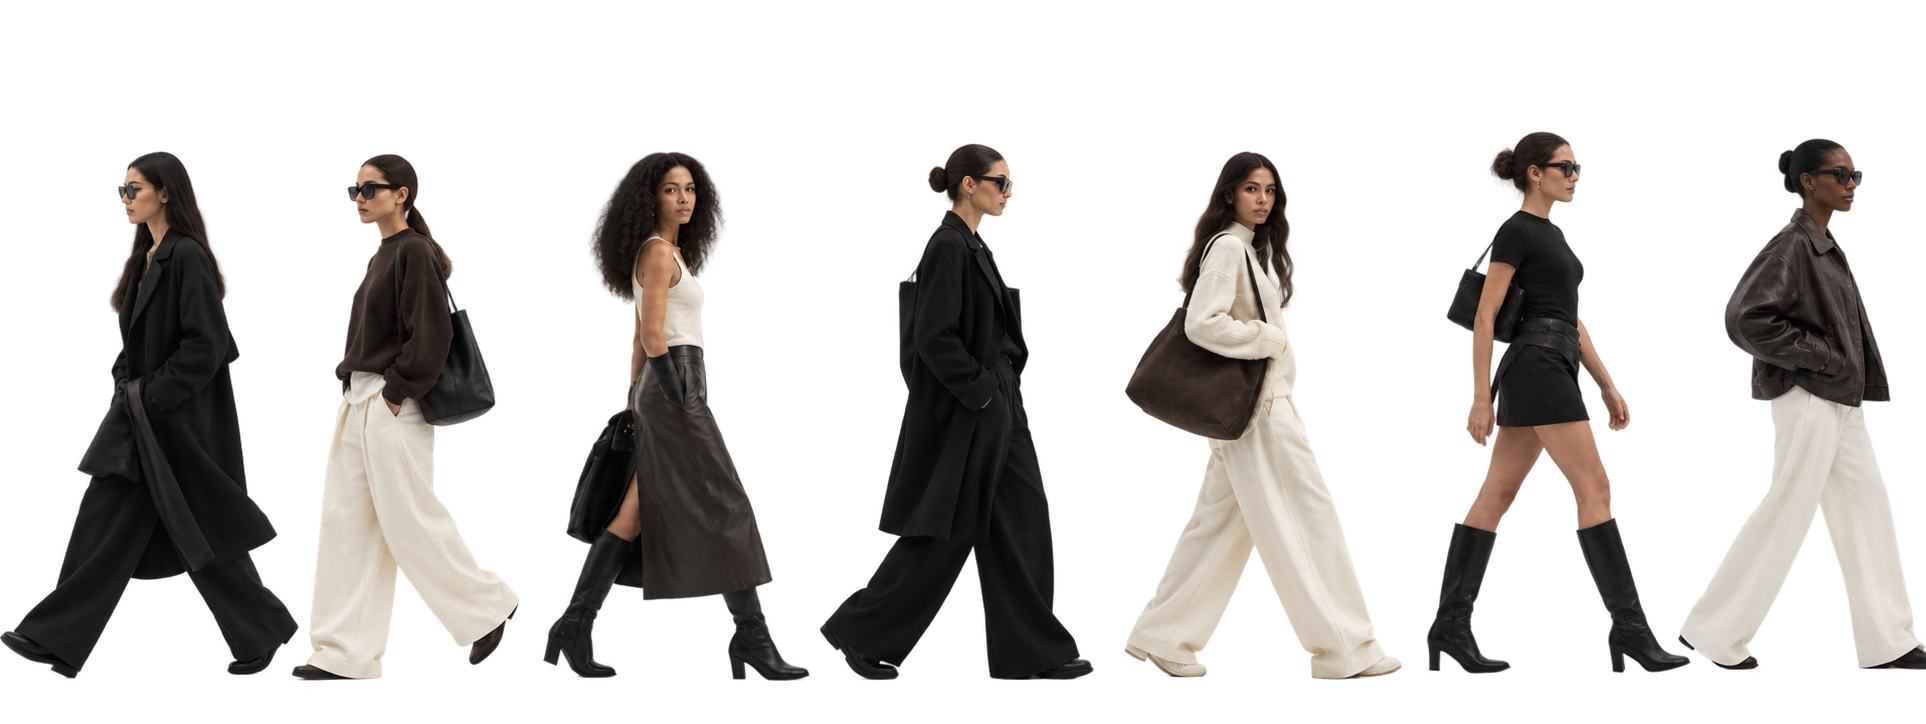
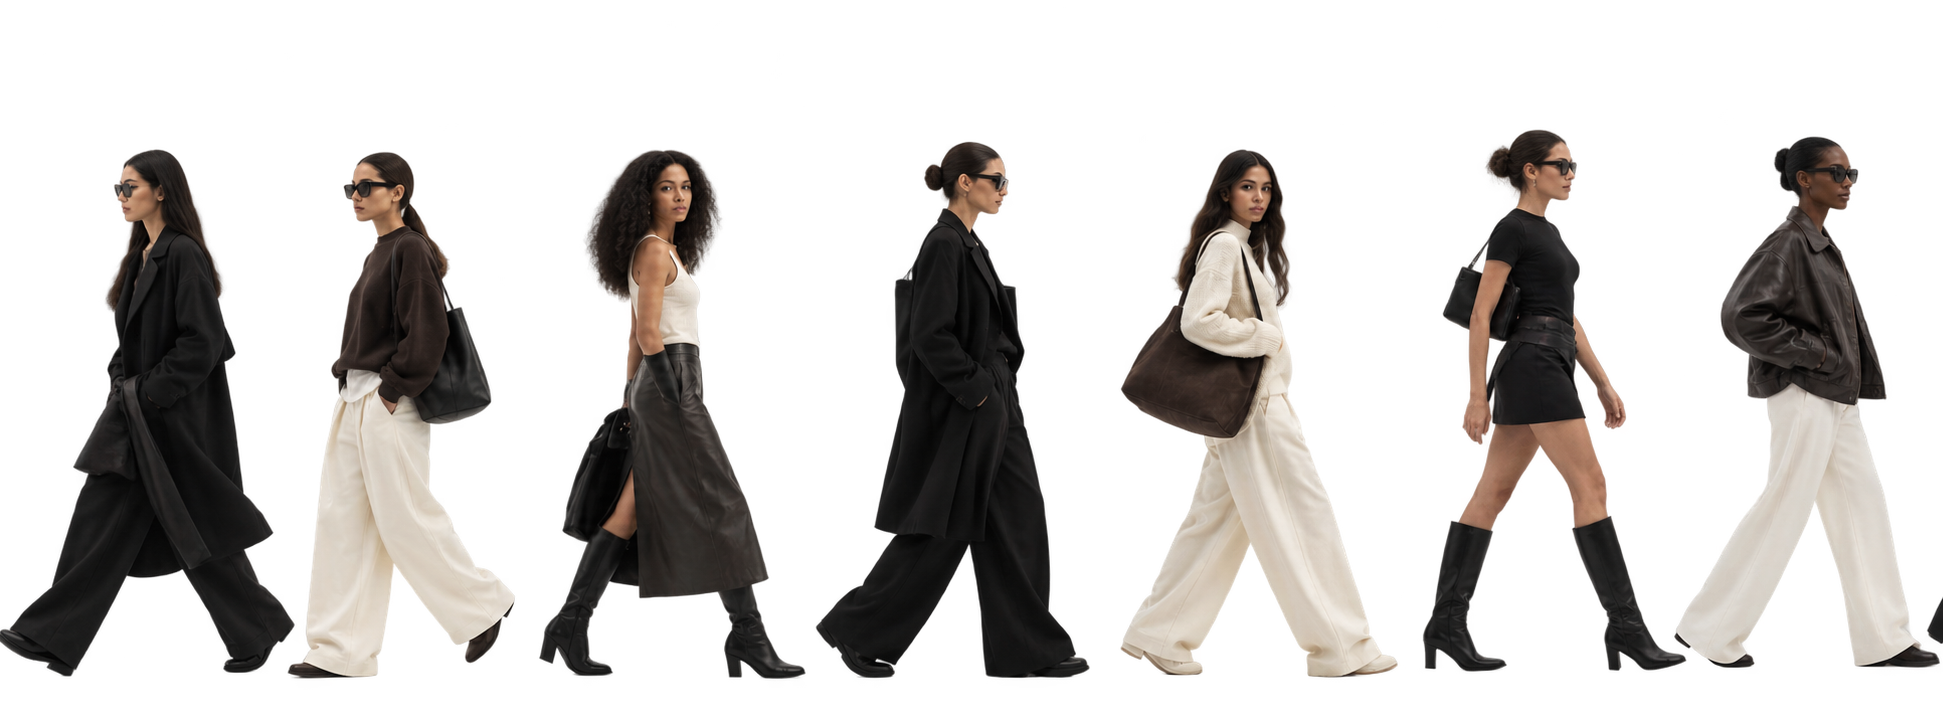
Rebuild the walk in JavaScript, and take the new strip
The CSS approach kept losing its iteration count, so the strip made one pass
and parked. Patching the shorthand did not hold. The animation is now created
in JavaScript with iterations: Infinity passed as a value, the page keeps a
handle on it, and it is restarted if a sleeping tab ever leaves it finished or
idle (on visibilitychange, on pageshow, and on a five second heartbeat).

Also: Alexis's own crop of the walking strip replaces mine, 1943x722, no
transparent edges to trim.

diff --git a/src/pages/Index.tsx b/src/pages/Index.tsx
@@ -9,7 +9,7 @@
 // leather. The leather is photographed (public/home), never faked in CSS.
 // Scale, type, whitespace and one slow horizontal movement carry it. No cards,
 // no pills, no icons, no serifs.
-import { useEffect, useState } from "react";
+import { useEffect, useRef, useState } from "react";
 import { useLocation, useNavigate } from "react-router-dom";
 import { motion } from "framer-motion";
 import { ArrowRight, ArrowUpRight } from "lucide-react";
@@ -37,16 +37,7 @@ const PAGE_CSS = `
 .e11-link:hover { opacity: 0.6; }
 /* The walk: two copies of the same strip, sliding one full copy then resetting. */
 @keyframes e11-walk { from { transform: translate3d(0, 0, 0); } to { transform: translate3d(-50%, 0, 0); } }
-.e11-walk {
-  animation-name: e11-walk;
-  animation-duration: 30s;
-  animation-timing-function: linear;
-  animation-iteration-count: infinite;
-  animation-direction: normal;
-  animation-fill-mode: none;
-  animation-play-state: running;
-  will-change: transform;
-}
+.e11-walk { will-change: transform; }
 @media (prefers-reduced-motion: reduce) { .e11-walk { animation: none; } }
 `;
 
@@ -191,6 +182,40 @@ const Index = () => {
     </button>
   );
 
+  // The walk. Driven here rather than in CSS: the shorthand's iteration count
+  // was not surviving, so the strip made a single pass and held. This keeps a
+  // handle on the animation, so it can be checked and restarted.
+  const walkRef = useRef<HTMLDivElement>(null);
+  useEffect(() => {
+    const track = walkRef.current;
+    if (!track) return;
+    if (window.matchMedia?.("(prefers-reduced-motion: reduce)").matches) return;
+    const anim = track.animate(
+      [{ transform: "translate3d(0, 0, 0)" }, { transform: "translate3d(-50%, 0, 0)" }],
+      { duration: 30000, iterations: Infinity, easing: "linear" },
+    );
+    // A tab that sleeps can leave an animation idle or finished. Whenever the
+    // page comes back, make sure it is still running.
+    const keepGoing = () => {
+      if (document.visibilityState !== "visible") return;
+      if (anim.playState === "finished" || anim.playState === "idle") {
+        try { anim.cancel(); } catch { /* already gone */ }
+        anim.play();
+      } else if (anim.playState === "paused") {
+        anim.play();
+      }
+    };
+    document.addEventListener("visibilitychange", keepGoing);
+    window.addEventListener("pageshow", keepGoing);
+    const beat = window.setInterval(keepGoing, 5000);
+    return () => {
+      document.removeEventListener("visibilitychange", keepGoing);
+      window.removeEventListener("pageshow", keepGoing);
+      clearInterval(beat);
+      anim.cancel();
+    };
+  }, []);
+
   const leather = (src: string): React.CSSProperties => ({
     backgroundImage: `url(${src})`,
     backgroundSize: "cover",
@@ -257,7 +282,7 @@ const Index = () => {
           </h1>
 
           <div style={{ position: "absolute", left: 0, right: 0, bottom: 0, overflow: "hidden" }}>
-            <div className="e11-walk" style={{ display: "flex", width: "max-content" }}>
+            <div ref={walkRef} className="e11-walk" style={{ display: "flex", width: "max-content" }}>
               {[0, 1].map((i) => (
                 <img
                   key={i}
